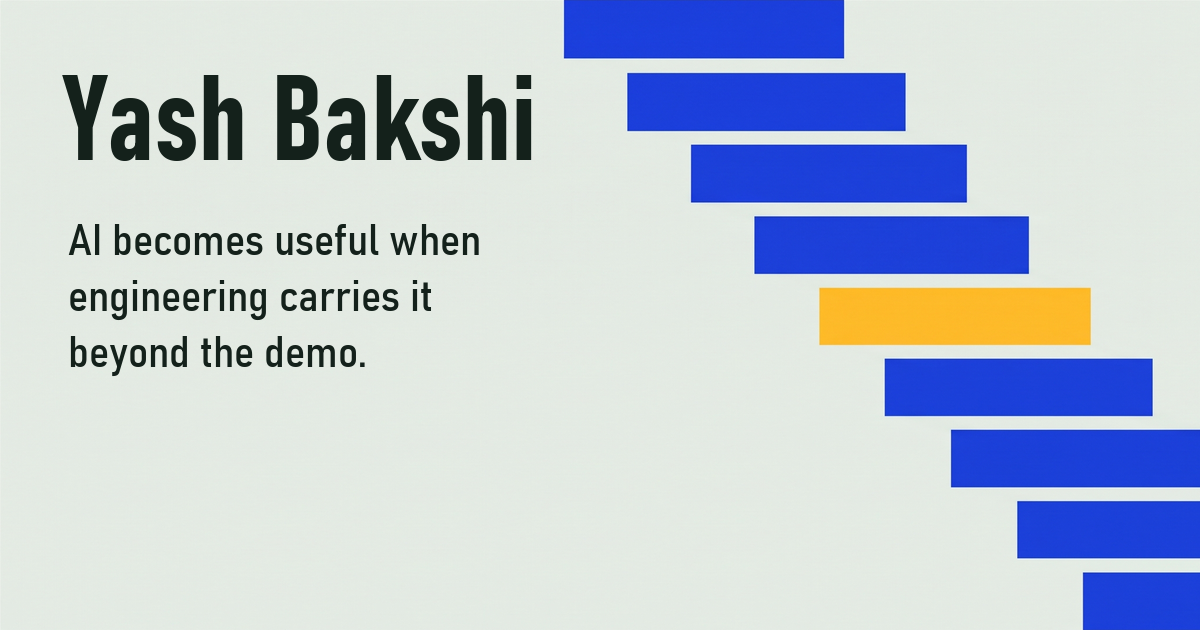
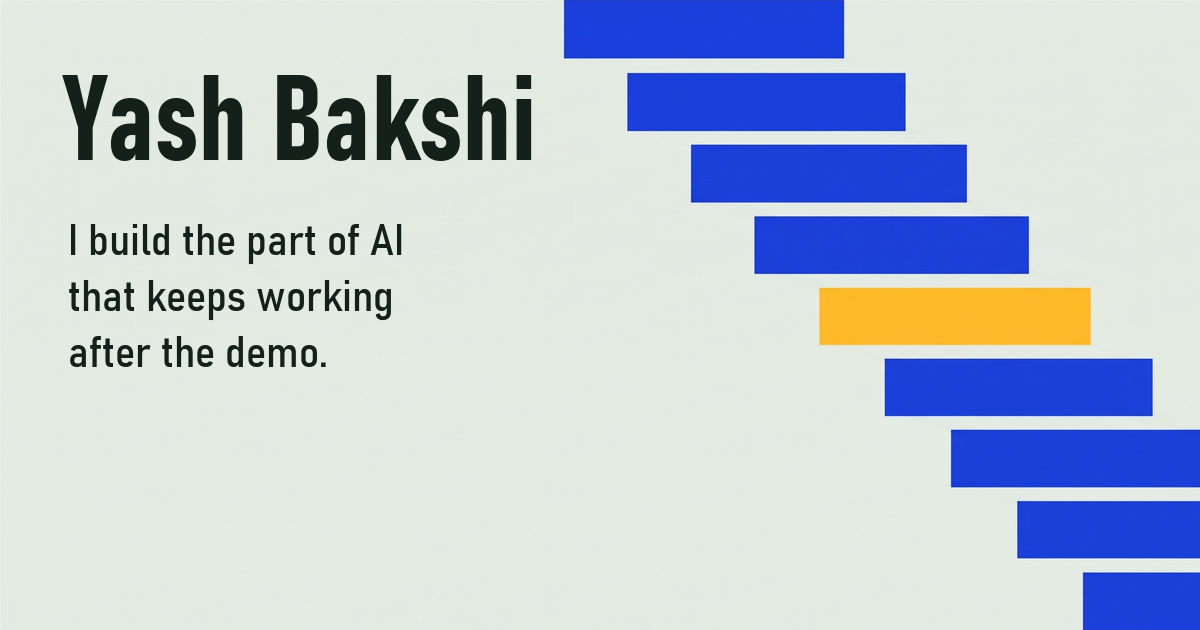
New headline: I build the part of AI that keeps working after the demo
Update the page, social preview image and description, design language and
wireframes, and reword the introduction so it does not repeat the headline.

Changed region(s): [[0.0617, 0.4524, 0.37, 0.6032], [0.0617, 0.3619, 0.4008, 0.4222]]

diff --git a/apps/web/src/App.tsx b/apps/web/src/App.tsx
@@ -139,14 +139,14 @@ export function Home() {
       <main id="main">
         <section className="ask" aria-labelledby="ask-title">
           <h1 id="ask-title" className="ask-headline">
-            <span>AI becomes useful when</span>
-            <span>engineering carries it</span>
-            <span>beyond the demo.</span>
+            <span>I build the part of AI</span>
+            <span>that keeps working</span>
+            <span>after the demo.</span>
           </h1>
           <p className="ask-lede">
-            I’m Yash Bakshi, a software engineer who builds AI applications and the backend, cloud
-            and delivery work around them. The guide below is an assistant that answers questions
-            about my projects from my own notes.
+            I’m Yash Bakshi, a software engineer working across AI applications, backend services
+            and cloud delivery. The guide below is an assistant that answers questions about my
+            projects from my own notes.
           </p>
 
           <div className="ask-body">

diff --git a/apps/web/index.html b/apps/web/index.html
@@ -19,7 +19,7 @@
     <meta property="og:title" content="Yash Bakshi" />
     <meta
       property="og:description"
-      content="AI becomes useful when engineering carries it beyond the demo."
+      content="I build the part of AI that keeps working after the demo."
     />
     <meta property="og:image" content="/og.png" />
     <meta name="twitter:card" content="summary_large_image" />

diff --git a/docs/design/wireframes/README.md b/docs/design/wireframes/README.md
@@ -8,9 +8,9 @@ Text wireframes specify hierarchy; the built page in `apps/web` is the reference
 ┌─────────────────────────────────────────────────────────┐
 │ Yash Bakshi (sticky)          Projects  History  Contact│
 ├─────────────────────────────────────────────────────────┤
-│ AI becomes useful when                                  │
-│ engineering carries it                                  │
-│ beyond the demo.                                        │
+│ I build the part of AI                                  │
+│ that keeps working                                      │
+│ after the demo.                                         │
 │ Short introduction                                      │
 │ ┌──────────────────────────────┐   ┌───────────────┐   │
 │ │ Ask about my work  [ Ask ]   │   │               │   │

diff --git a/docs/design/design-language.md b/docs/design/design-language.md
@@ -10,7 +10,7 @@ The portfolio must stay fully useful without the guide: every project, the work 
 
 **Masthead:** Yash Bakshi (small wordmark in the sticky header).
 
-**Lead:** *AI becomes useful when engineering carries it beyond the demo.*
+**Lead:** *I build the part of AI that keeps working after the demo.*
 
 ## Palette
 
